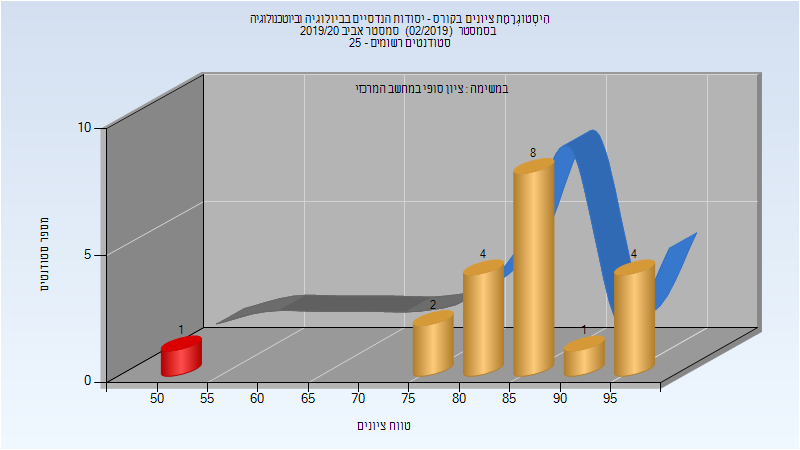
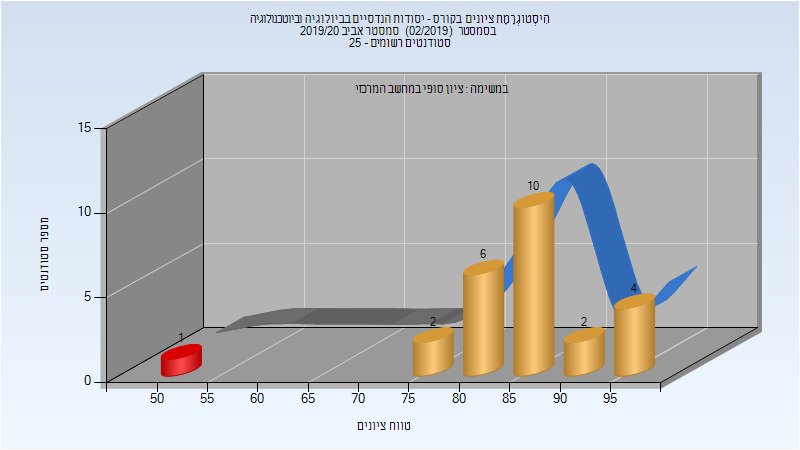
Deploy michael-maltsev/technion-histograms to github.com/michael-maltsev/technion-histograms.git:gh-pages

diff --git a/336545/index.html b/336545/index.html
@@ -93,5 +93,72 @@
 </tr>
 </tbody>
 </table>
+<h2>אביב 2020</h2>
+<table>
+<thead>
+<tr>
+<th>איש סגל</th>
+<th>תפקיד</th>
+</tr>
+</thead>
+<tbody>
+<tr>
+<td>קנדי ג'ון</td>
+<td>מרצה - אחראי מקצוע</td>
+</tr>
+</tbody>
+</table>
+<h3>סופי מועד א'</h3>
+<p><img src="201902/Final_A.png" alt="201902 Final_A" /></p>
+<table>
+<thead>
+<tr>
+<th>סטודנטים</th>
+<th>עברו/נכשלו</th>
+<th>אחוז עוברים</th>
+<th>ציון מינימלי</th>
+<th>ציון מקסימלי</th>
+<th>ממוצע</th>
+<th>חציון</th>
+</tr>
+</thead>
+<tbody>
+<tr>
+<td>12</td>
+<td>12/0</td>
+<td>100</td>
+<td>80</td>
+<td>95</td>
+<td>87.5</td>
+<td>85</td>
+</tr>
+</tbody>
+</table>
+<h3>סופי</h3>
+<p><img src="201902/Finals.png" alt="201902 Finals" /></p>
+<table>
+<thead>
+<tr>
+<th>סטודנטים</th>
+<th>עברו/נכשלו</th>
+<th>אחוז עוברים</th>
+<th>ציון מינימלי</th>
+<th>ציון מקסימלי</th>
+<th>ממוצע</th>
+<th>חציון</th>
+</tr>
+</thead>
+<tbody>
+<tr>
+<td>12</td>
+<td>12/0</td>
+<td>100</td>
+<td>80</td>
+<td>95</td>
+<td>87.5</td>
+<td>85</td>
+</tr>
+</tbody>
+</table>
   </body>
 </html>

diff --git a/336405/index.html b/336405/index.html
@@ -82,12 +82,12 @@
 </thead>
 <tbody>
 <tr>
-<td>20</td>
-<td>19/1</td>
-<td>95</td>
+<td>25</td>
+<td>24/1</td>
+<td>96</td>
 <td>50</td>
 <td>98</td>
-<td>85.5</td>
+<td>85.48</td>
 <td>87</td>
 </tr>
 </tbody>

diff --git a/336545/README.md b/336545/README.md
@@ -25,3 +25,25 @@
 | ---- | ---- | ---- | ---- | ---- | ---- | ---- |
 | 19 | 18/1 | 95 | 42 | 95 | 76.421 | 74 |
 
+## אביב 2020
+
+| איש סגל | תפקיד |
+| ---- | ---- |
+| קנדי ג'ון | מרצה - אחראי מקצוע |
+
+### סופי מועד א'
+
+![201902 Final_A](201902/Final_A.png)
+
+| סטודנטים | עברו/נכשלו | אחוז עוברים | ציון מינימלי | ציון מקסימלי | ממוצע | חציון |
+| ---- | ---- | ---- | ---- | ---- | ---- | ---- |
+| 12 | 12/0 | 100 | 80 | 95 | 87.5 | 85 |
+
+### סופי
+
+![201902 Finals](201902/Finals.png)
+
+| סטודנטים | עברו/נכשלו | אחוז עוברים | ציון מינימלי | ציון מקסימלי | ממוצע | חציון |
+| ---- | ---- | ---- | ---- | ---- | ---- | ---- |
+| 12 | 12/0 | 100 | 80 | 95 | 87.5 | 85 |
+

diff --git a/336405/README.md b/336405/README.md
@@ -21,5 +21,5 @@
 
 | סטודנטים | עברו/נכשלו | אחוז עוברים | ציון מינימלי | ציון מקסימלי | ממוצע | חציון |
 | ---- | ---- | ---- | ---- | ---- | ---- | ---- |
-| 20 | 19/1 | 95 | 50 | 98 | 85.5 | 87 |
+| 25 | 24/1 | 96 | 50 | 98 | 85.48 | 87 |
 
